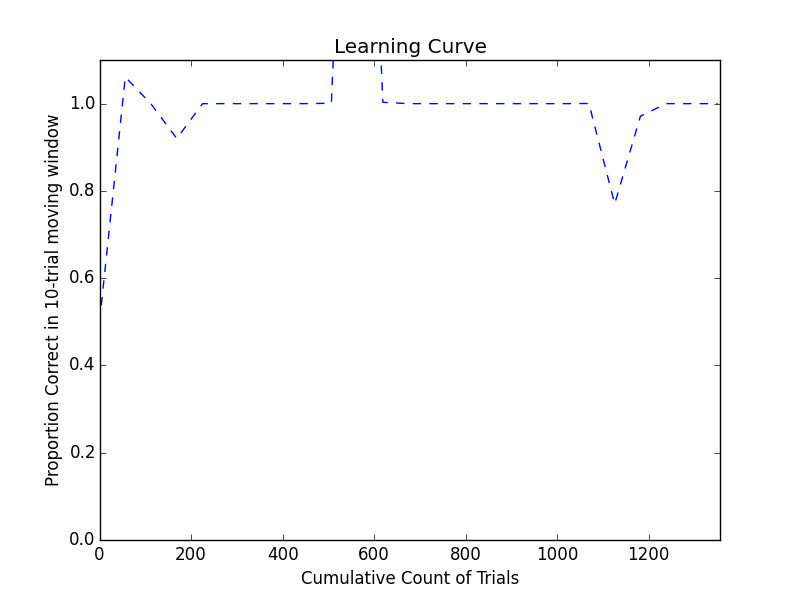
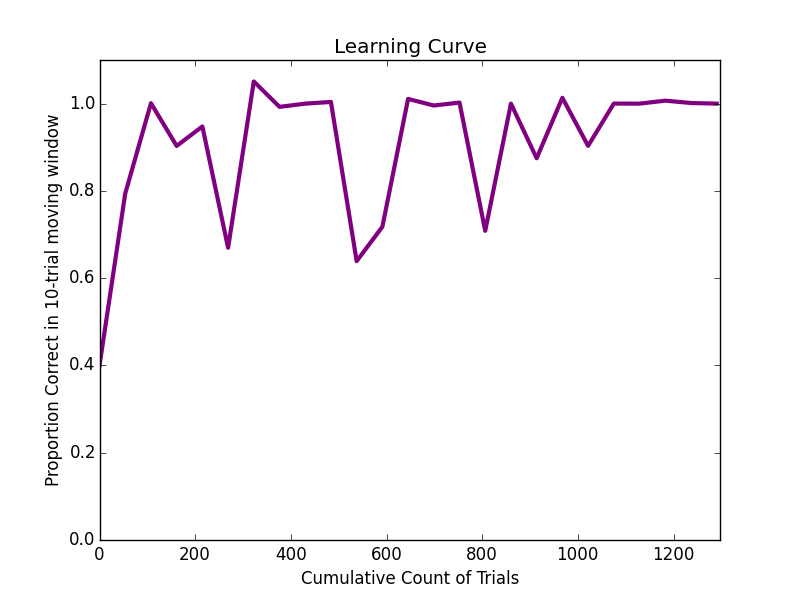
Implemented decreasing epsilon

diff --git a/plotLearning.py b/plotLearning.py
@@ -11,11 +11,18 @@ def prep_data(movAvg):
     normalize = 0
     sum =0
     proportions = []
-    for d in data:
+    for d in range(len(data)):
         normalize += 1
-        sum += int(d)
-        if (normalize == movAvg) or (d == data[len(data) - 1]):
-            proportions.append(float(sum)/float(normalize))
+        if int(data[d]) == 11:
+            sum += 2
+        else:
+            sum += int(data[d])
+        if (normalize == movAvg) or (d == len(data)-1):
+            avg = float(sum) / float(normalize)
+            if avg > 1:
+                proportions.append(1)
+            else:
+                proportions.append(float(sum)/float(normalize))
             normalize =0
             sum = 0
     return (proportions, len(data))
@@ -36,7 +43,8 @@ def plot_results(proportions,trialNum,movAvg):
     new_x = np.linspace(min(x1), max(x1), new_length)
     new_y = interp1d(x1, y1, kind='cubic')(new_x)
 
-    plt.plot(new_x,new_y,'--')
+    line = plt.plot(new_x,new_y,'-')
+    plt.setp(line, linewidth=3, color='purple')
     plt.axis([1,trialNum,0,1.1])
     plt.title('Learning Curve')
     plt.xlabel("Cumulative Count of Trials")

diff --git a/exploration.py b/exploration.py
@@ -1,2 +1,18 @@
-import explauto
+
+
+def decreasingE(agent,state):
+    """
+    Implements the decreasing-epsilon method
+    which starts with a relatively high exploration rate
+    and then decreases with time.
+    """
+    episodes = float(agent.episodesSoFar)
+    trials = float(state.trial)
+
+
+    x = 100.0*episodes-100.0
+    m = -.0005
+    b = 1-.05
+    return m*x+b
+
 
